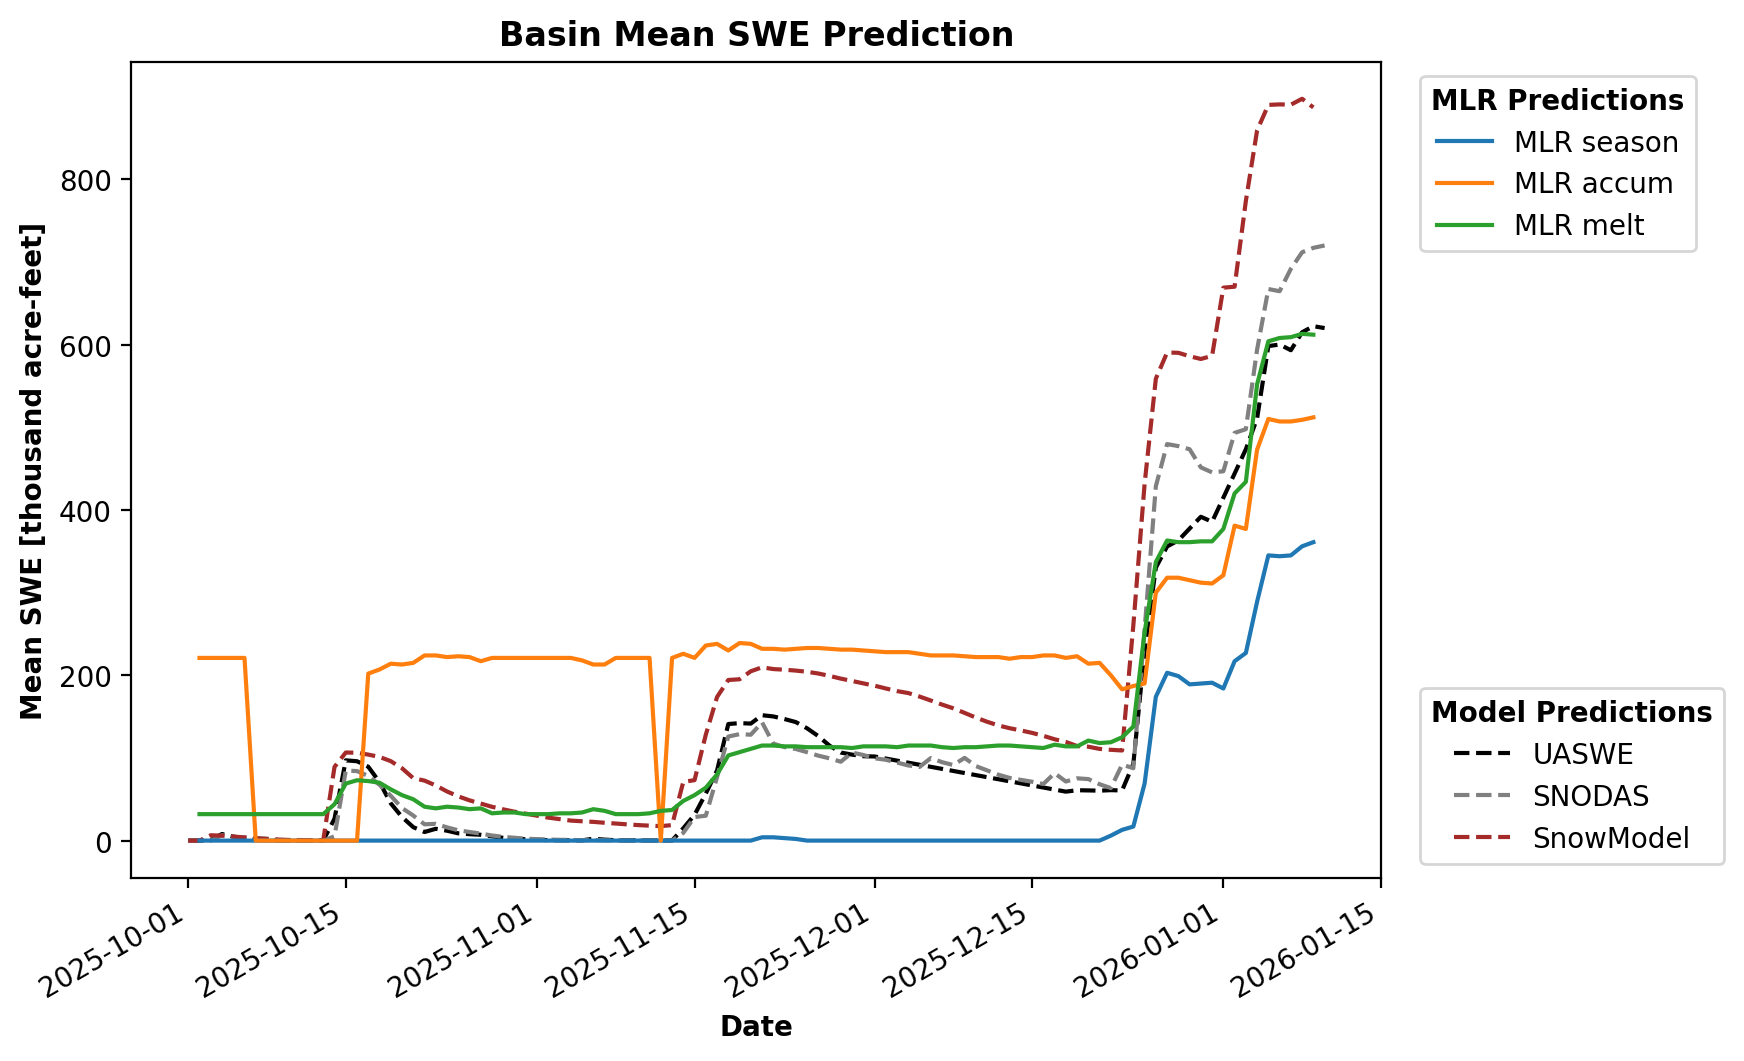
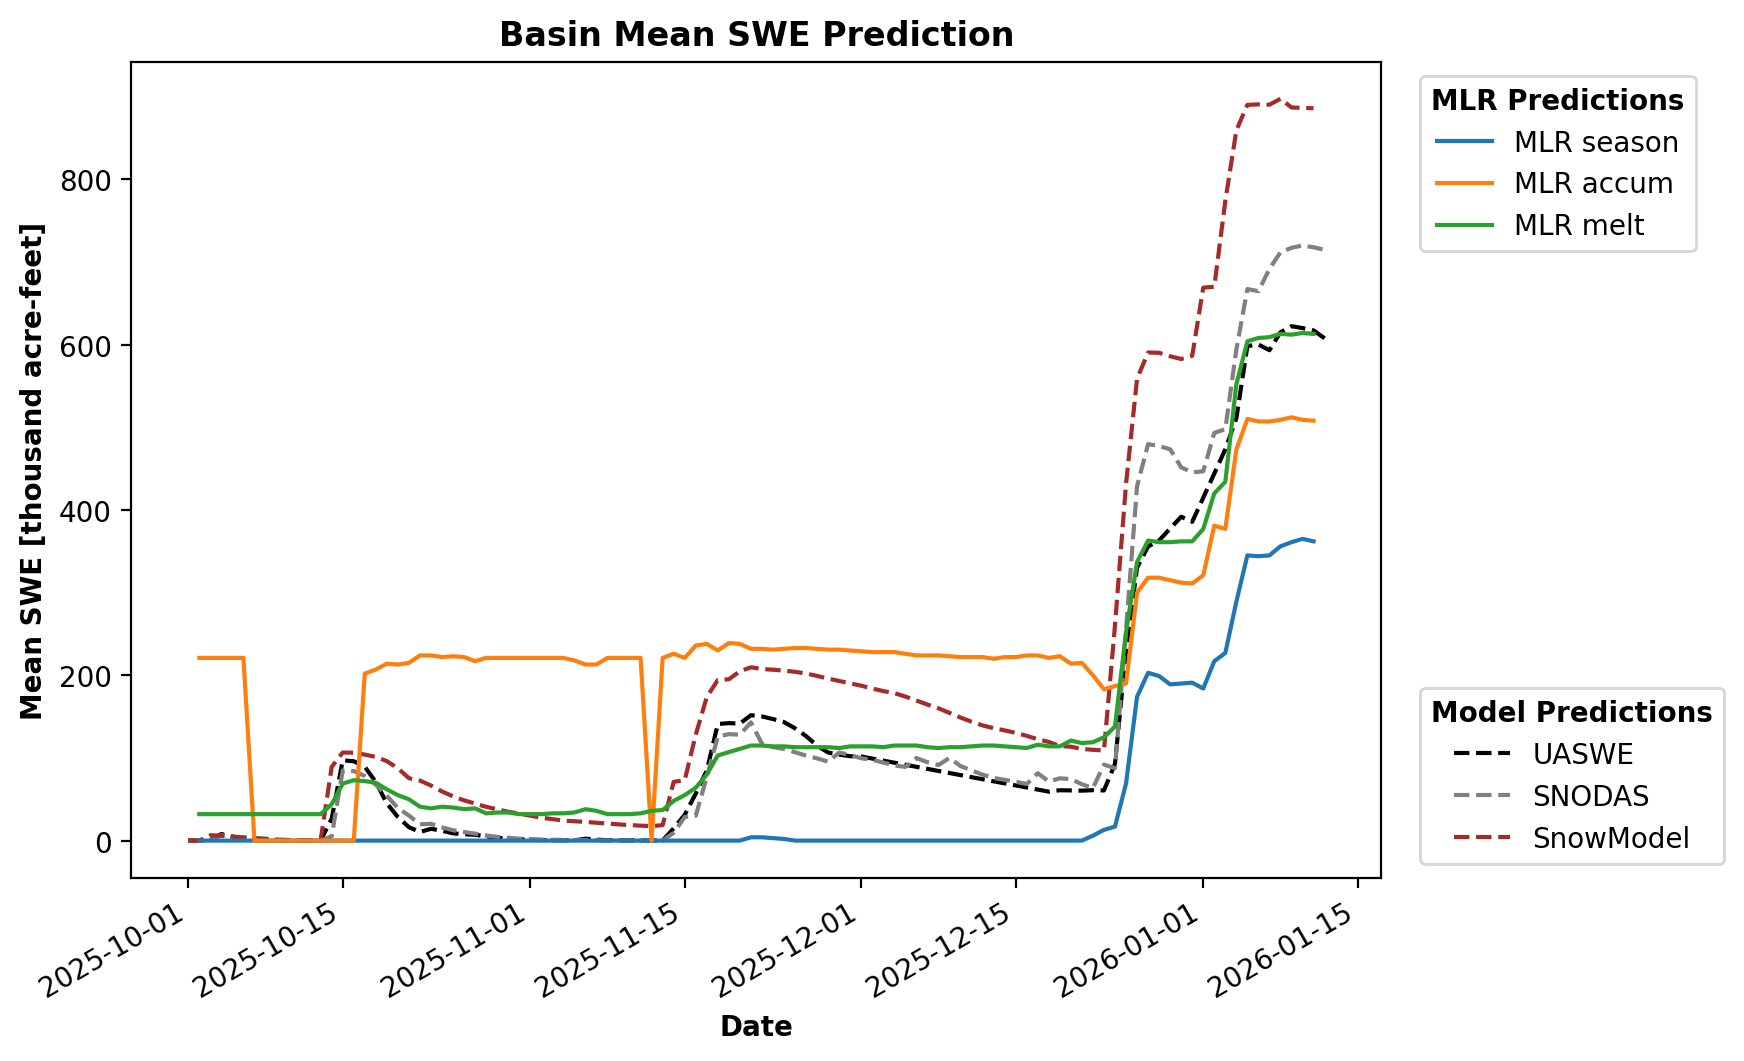
predictions up to jan 11 with some new postprocessing notebooks

diff --git a/public/USCASJ.html b/public/USCASJ.html
@@ -18,7 +18,7 @@
   </style>
 </head>
 <body>
-  <h1 style="text-align: center;">USCASJ Predictions on January 9, 2026</h1>
+  <h1 style="text-align: center;">USCASJ Predictions on January 11, 2026</h1>
   <div class="layout">
     <table>
       <thead>
@@ -28,44 +28,44 @@
         <tr>
           <td>COMMON_MASK</td>
           <td>season</td>
-          <td>2026-01-09</td>
+          <td>2026-01-11</td>
           <td>0</td>
           <td>44</td>
-          <td>115</td>
-          <td>123</td>
+          <td>116</td>
+          <td>124</td>
           <td>114</td>
-          <td>87</td>
-          <td>14</td>
+          <td>86</td>
+          <td>13</td>
           <td>500</td>
-          <td>361</td>
+          <td>362</td>
         </tr>
         <tr>
           <td>COMMON_MASK</td>
           <td>accum</td>
-          <td>2026-01-09</td>
+          <td>2026-01-11</td>
           <td>0</td>
           <td>5</td>
           <td>29</td>
           <td>49</td>
-          <td>122</td>
-          <td>89</td>
+          <td>104</td>
+          <td>75</td>
           <td>11</td>
-          <td>307</td>
-          <td>512</td>
+          <td>274</td>
+          <td>508</td>
         </tr>
         <tr>
           <td>COMMON_MASK</td>
           <td>melt</td>
-          <td>2026-01-09</td>
+          <td>2026-01-11</td>
           <td>6</td>
-          <td>54</td>
-          <td>104</td>
-          <td>142</td>
-          <td>134</td>
+          <td>53</td>
+          <td>105</td>
+          <td>143</td>
+          <td>135</td>
           <td>99</td>
           <td>15</td>
-          <td>556</td>
-          <td>612</td>
+          <td>557</td>
+          <td>613</td>
         </tr>
       </tbody>
     </table>
